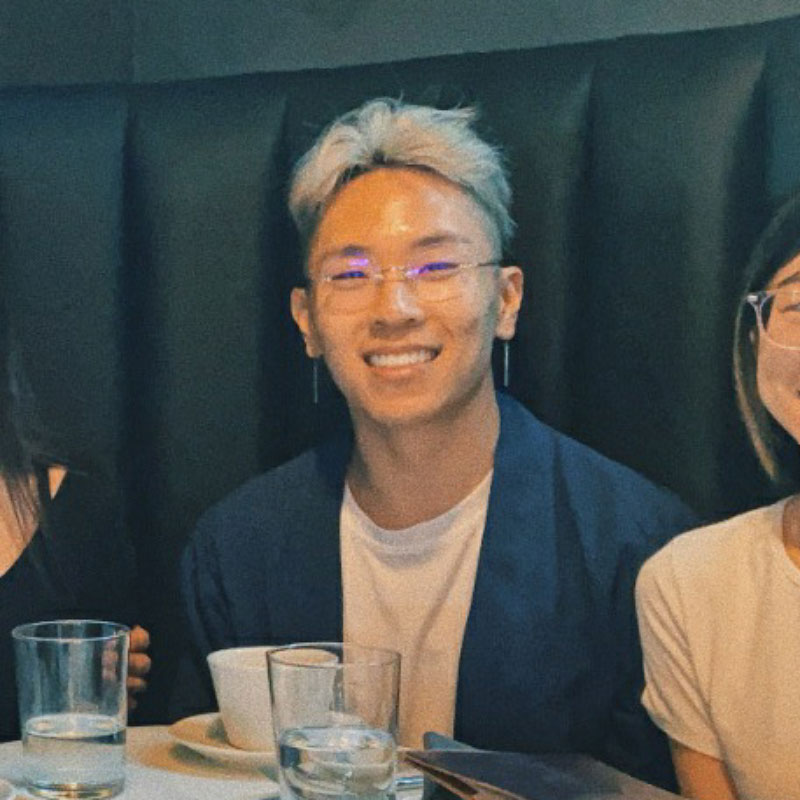
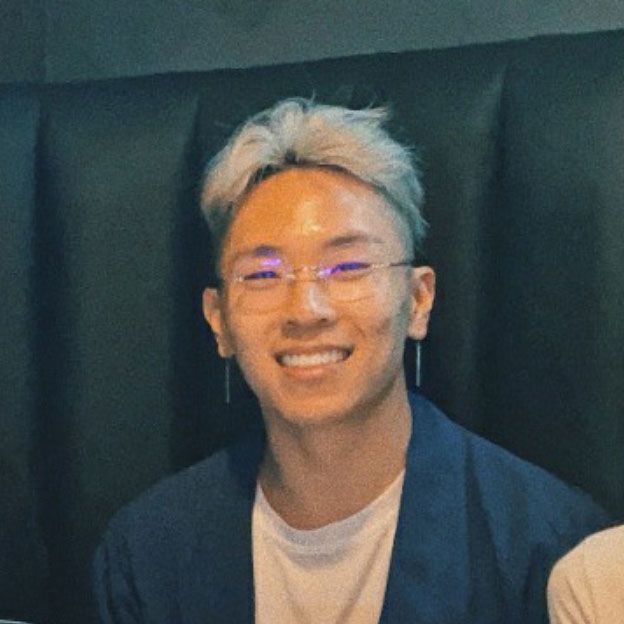
Version 1.0.2

diff --git a/index.html b/index.html
@@ -5,7 +5,7 @@
     <meta name="viewport" content="width=device-width, initial-scale=1.0" />
     <meta
       name="description"
-      content="A personal portfolio for projects, experiments, and notes by kohchanhee."
+      content="I'm just here so I don't get fined"
     />
     <link rel="preconnect" href="https://fonts.googleapis.com" />
     <link rel="preconnect" href="https://fonts.gstatic.com" crossorigin />
@@ -13,7 +13,7 @@
       href="https://fonts.googleapis.com/css2?family=Fustat:wght@200..800&family=Manjari:wght@100;400;700&display=swap"
       rel="stylesheet"
     />
-    <title>kohchanhee</title>
+    <title>Jon Woodey</title>
   </head>
   <body>
     <div id="root"></div>

diff --git a/src/data/work.ts b/src/data/work.ts
@@ -68,7 +68,7 @@ export const experienceItems: ExperienceItem[] = [
       alt: "",
     },
     summary:
-      "You may be wondering what Production Developer means. I'm not entirely sure either, but I did a lot of stuff.",
+      "You may be wondering what Production Developer means. I'm not entirely sure either, but I do a lot of stuff.",
     highlightGroups: [
       {
         title: "Web",

diff --git a/README.md b/README.md
@@ -1,27 +1,3 @@
 # kohchanhee.github.io
 
-Personal portfolio built with React, TypeScript, and Vite.
-
-## Local Development
-
-Install dependencies:
-
-```bash
-npm install
-```
-
-Start the dev server:
-
-```bash
-npm run dev
-```
-
-Build for production:
-
-```bash
-npm run build
-```
-
-## Deployment
-
-This repository is configured to deploy to GitHub Pages from GitHub Actions. Pushes to `main` build the site and publish the `dist` folder.
+I'm just here so I don't get fined
